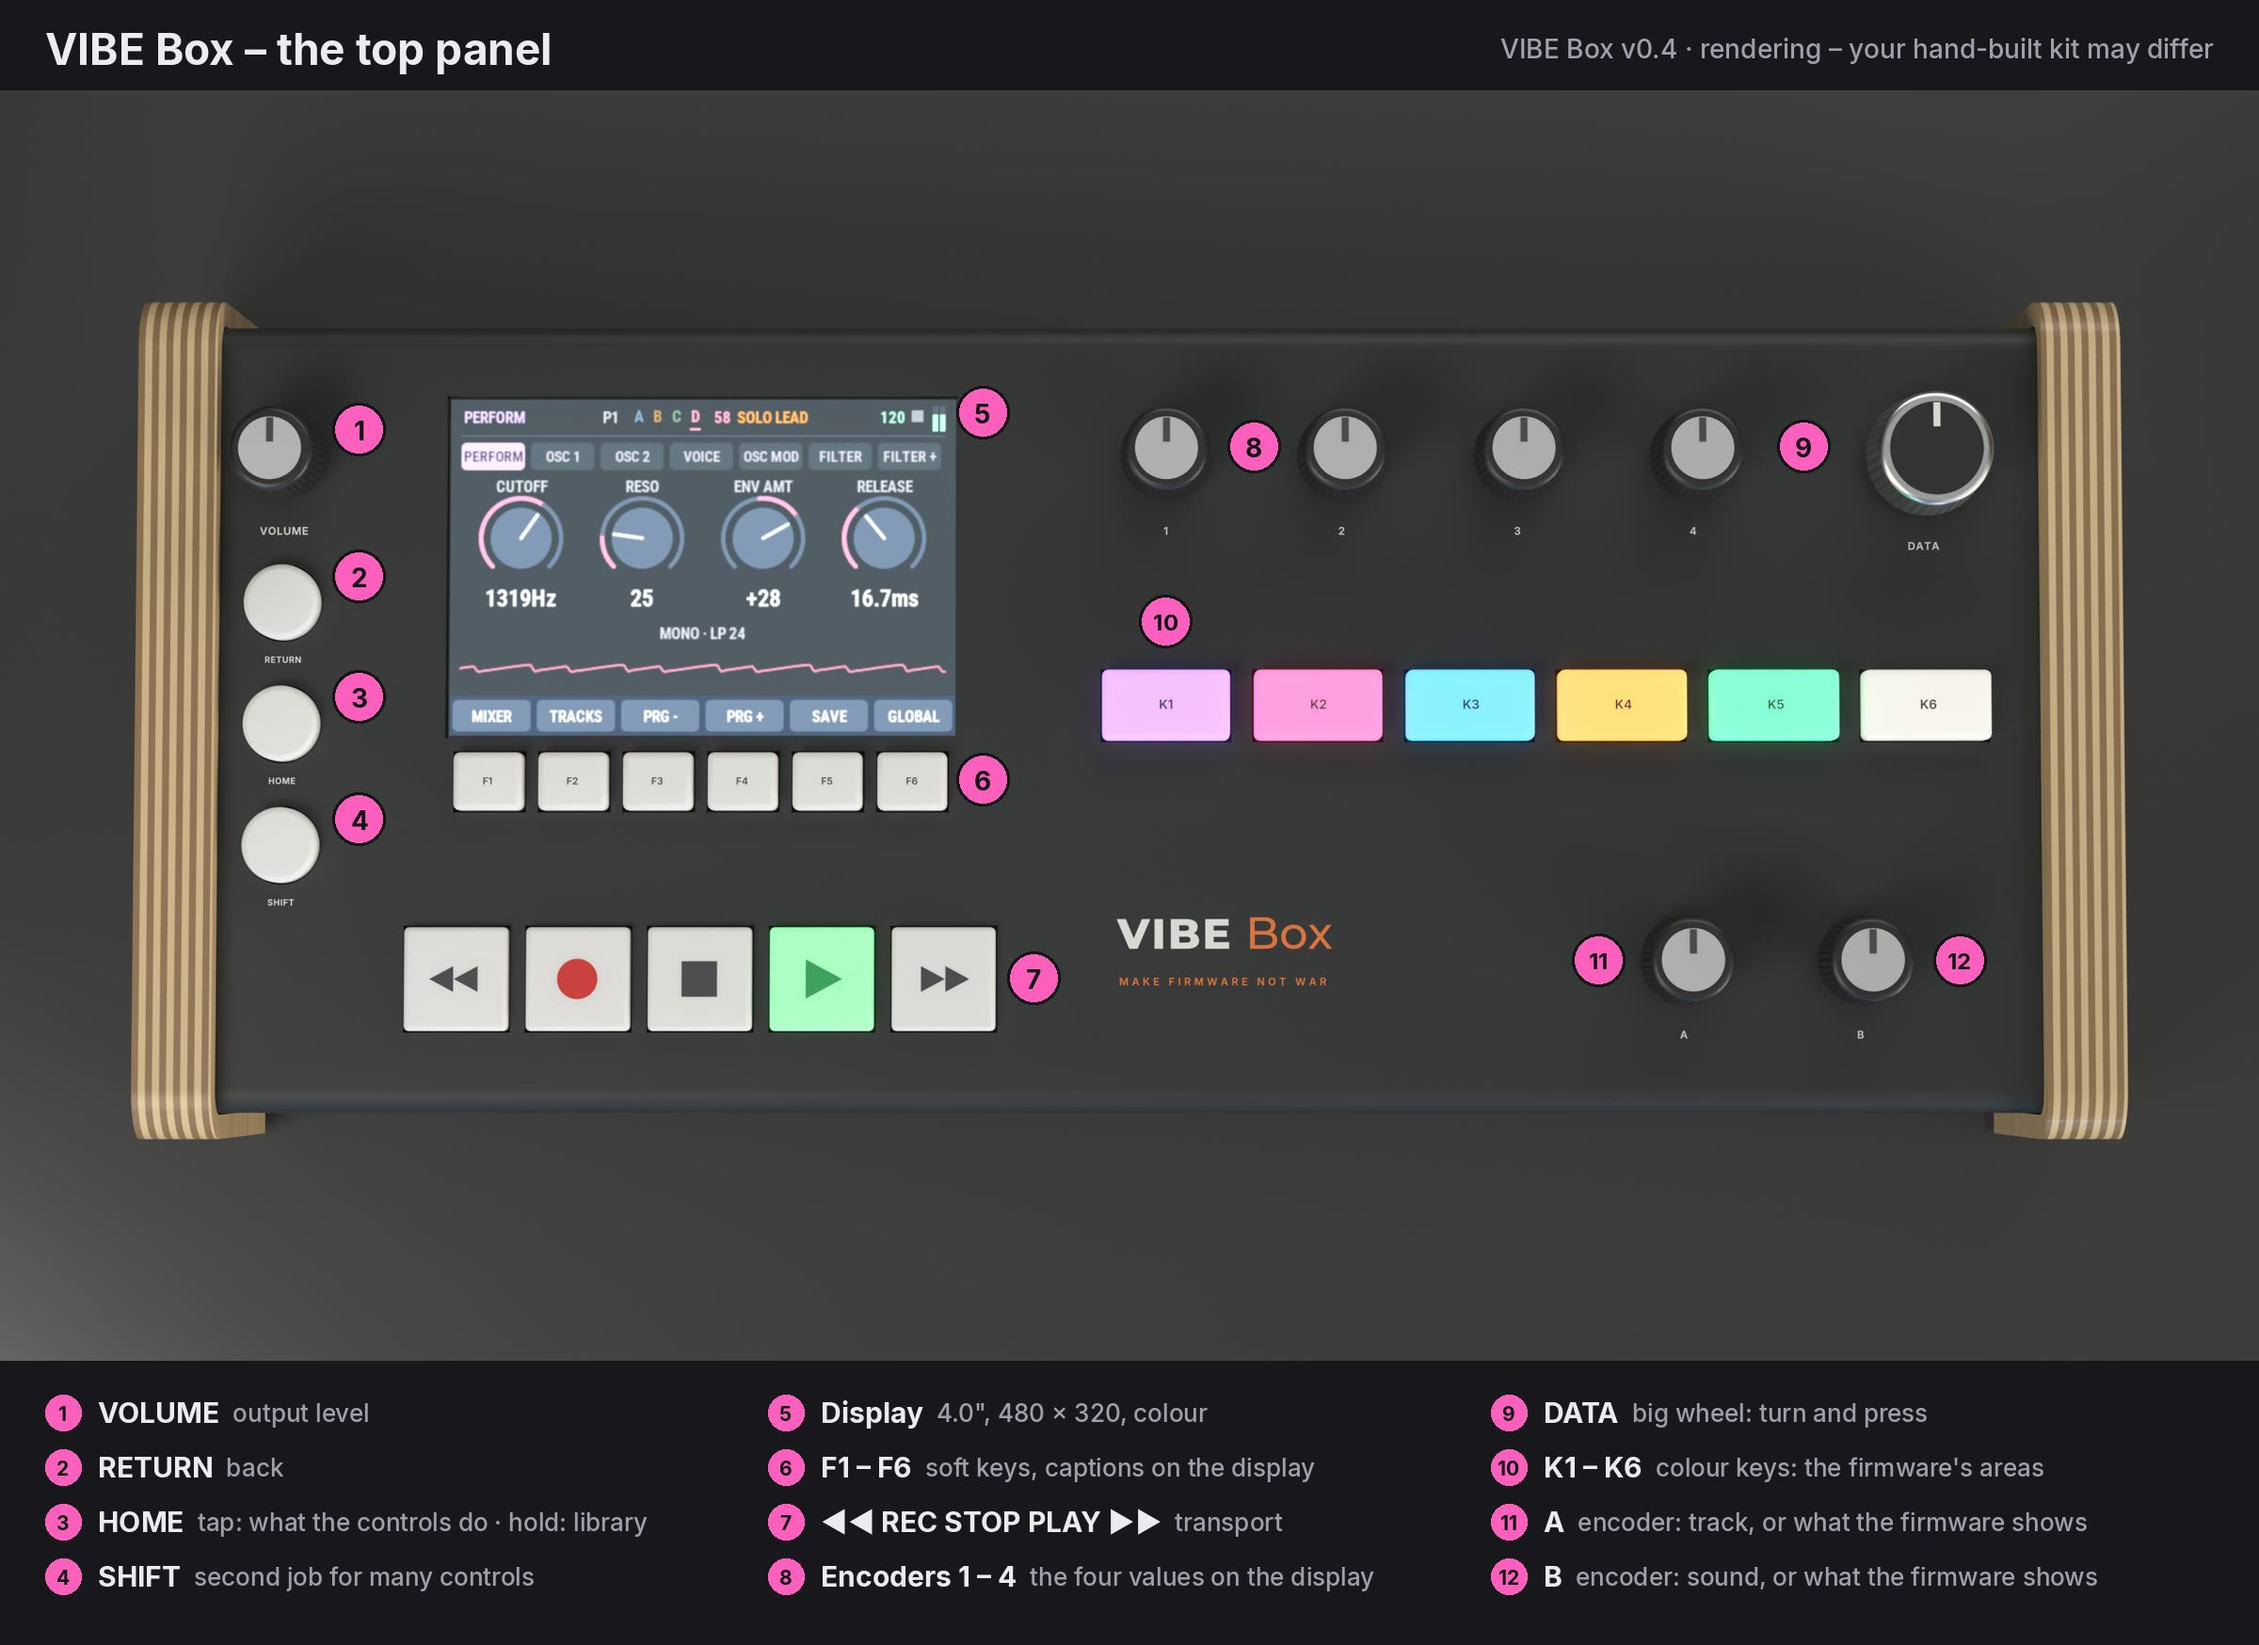
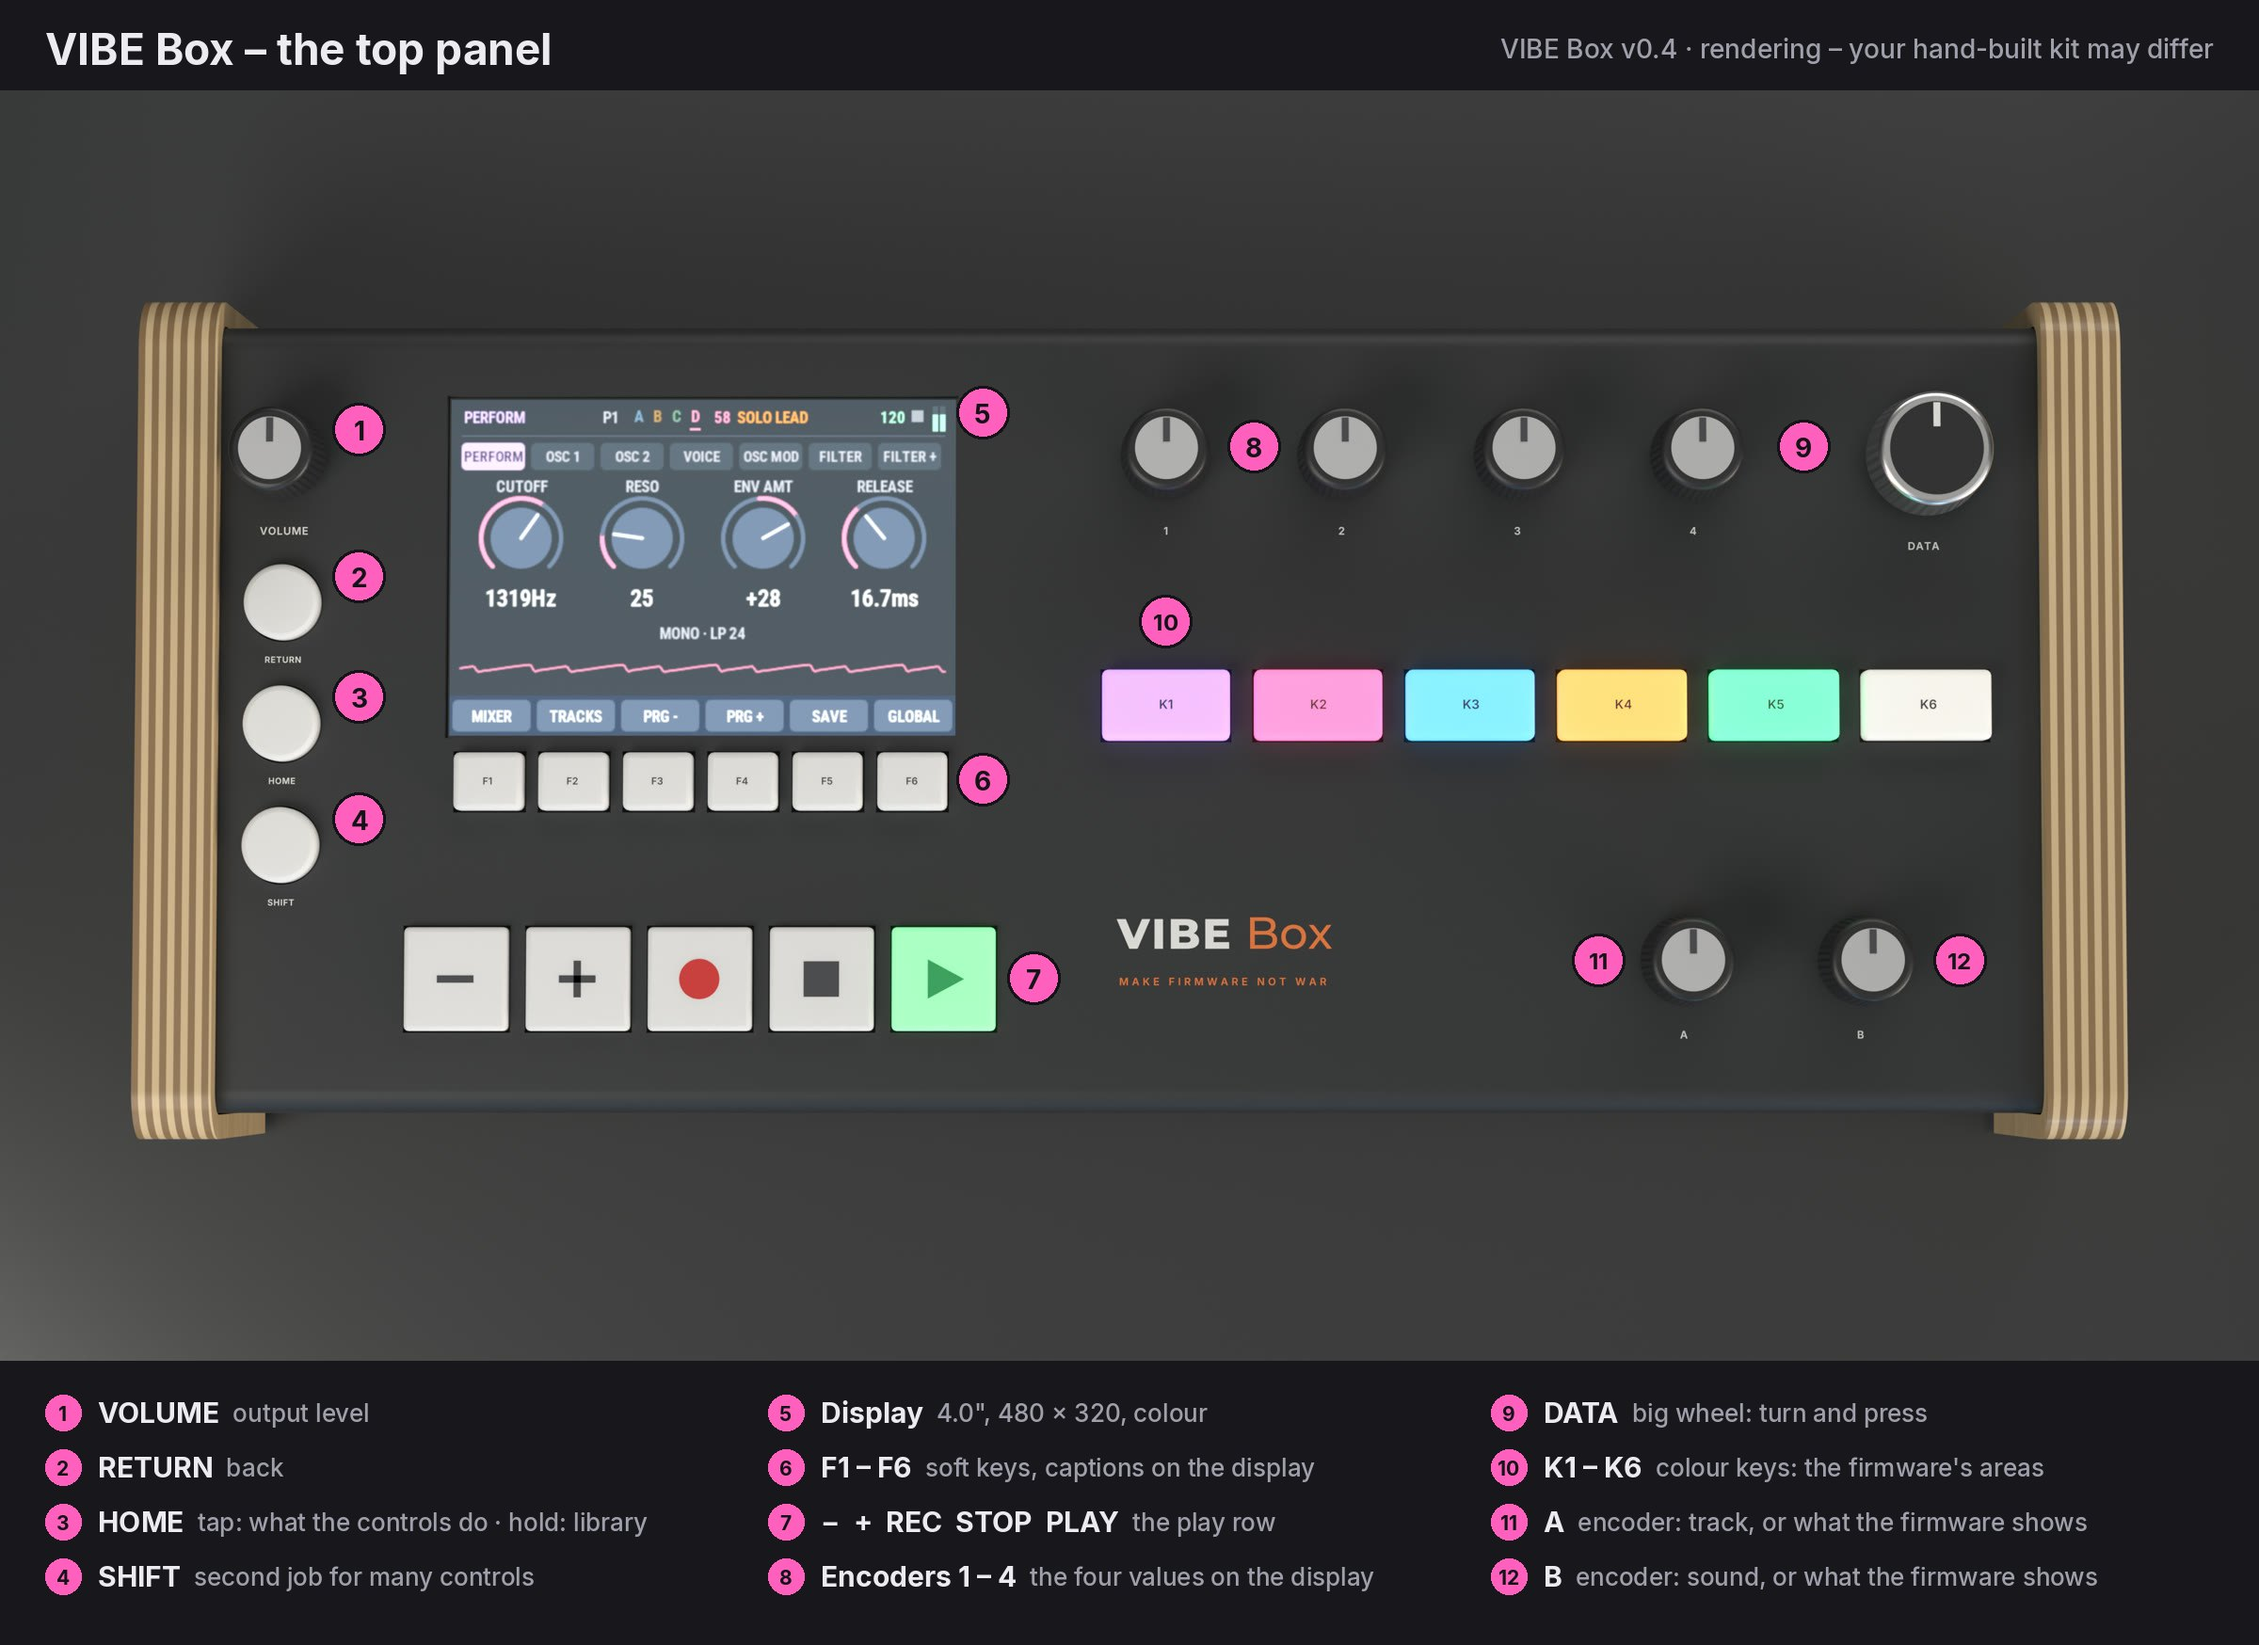
VIBE Box renderings of 24.11.: the play row is now − + REC STOP PLAY (code: VB_LEFT / VB_RIGHT for − / +, names unchanged for now) – front picture, numbered top panel and rear jacks made anew

Changed region(s): [[0.25, 0.5561, 0.4688, 0.6487], [0.375, 0.8959, 0.5312, 0.9268], [0.1875, 0.587, 0.2188, 0.6178]]

diff --git a/HARDWARE.md b/HARDWARE.md
@@ -29,7 +29,7 @@ instrument wants something else, and say so on your screen (F1 – F6 captions, 
 | 4 | SHIFT | `VB_SHIFT` – a second job for many controls |
 | 5 | Display | 4.0", 480 × 320, colour: `VIBE_SCREEN_W` × `VIBE_SCREEN_H`, drawn in `vibe_on_draw` |
 | 6 | F1 – F6 | `VB_F1` … `VB_F6` – soft keys right under the screen, their captions are yours to draw |
-| 7 | ◀◀ REC STOP PLAY ▶▶ | `VB_LEFT`, `VB_REC`, `VB_STOP`, `VB_PLAY`, `VB_RIGHT` |
+| 7 | − + REC STOP PLAY | `VB_LEFT` (−), `VB_RIGHT` (+), `VB_REC`, `VB_STOP`, `VB_PLAY` – the event names stay LEFT / RIGHT for now |
 | 8 | Encoders 1 – 4 | `VE_1` … `VE_4` (`VIBE_EV_ENCODER`, value = detents, + clockwise) – the four values on the screen |
 | 9 | DATA | `VE_DATA` to turn, `VB_DATA_PUSH` to press |
 | 10 | K1 – K6 | `VB_K1` … `VB_K6` – the colour keys, the firmware's areas (house style SOUND · ENV · LFO · ARP · FX · SEQ) |
